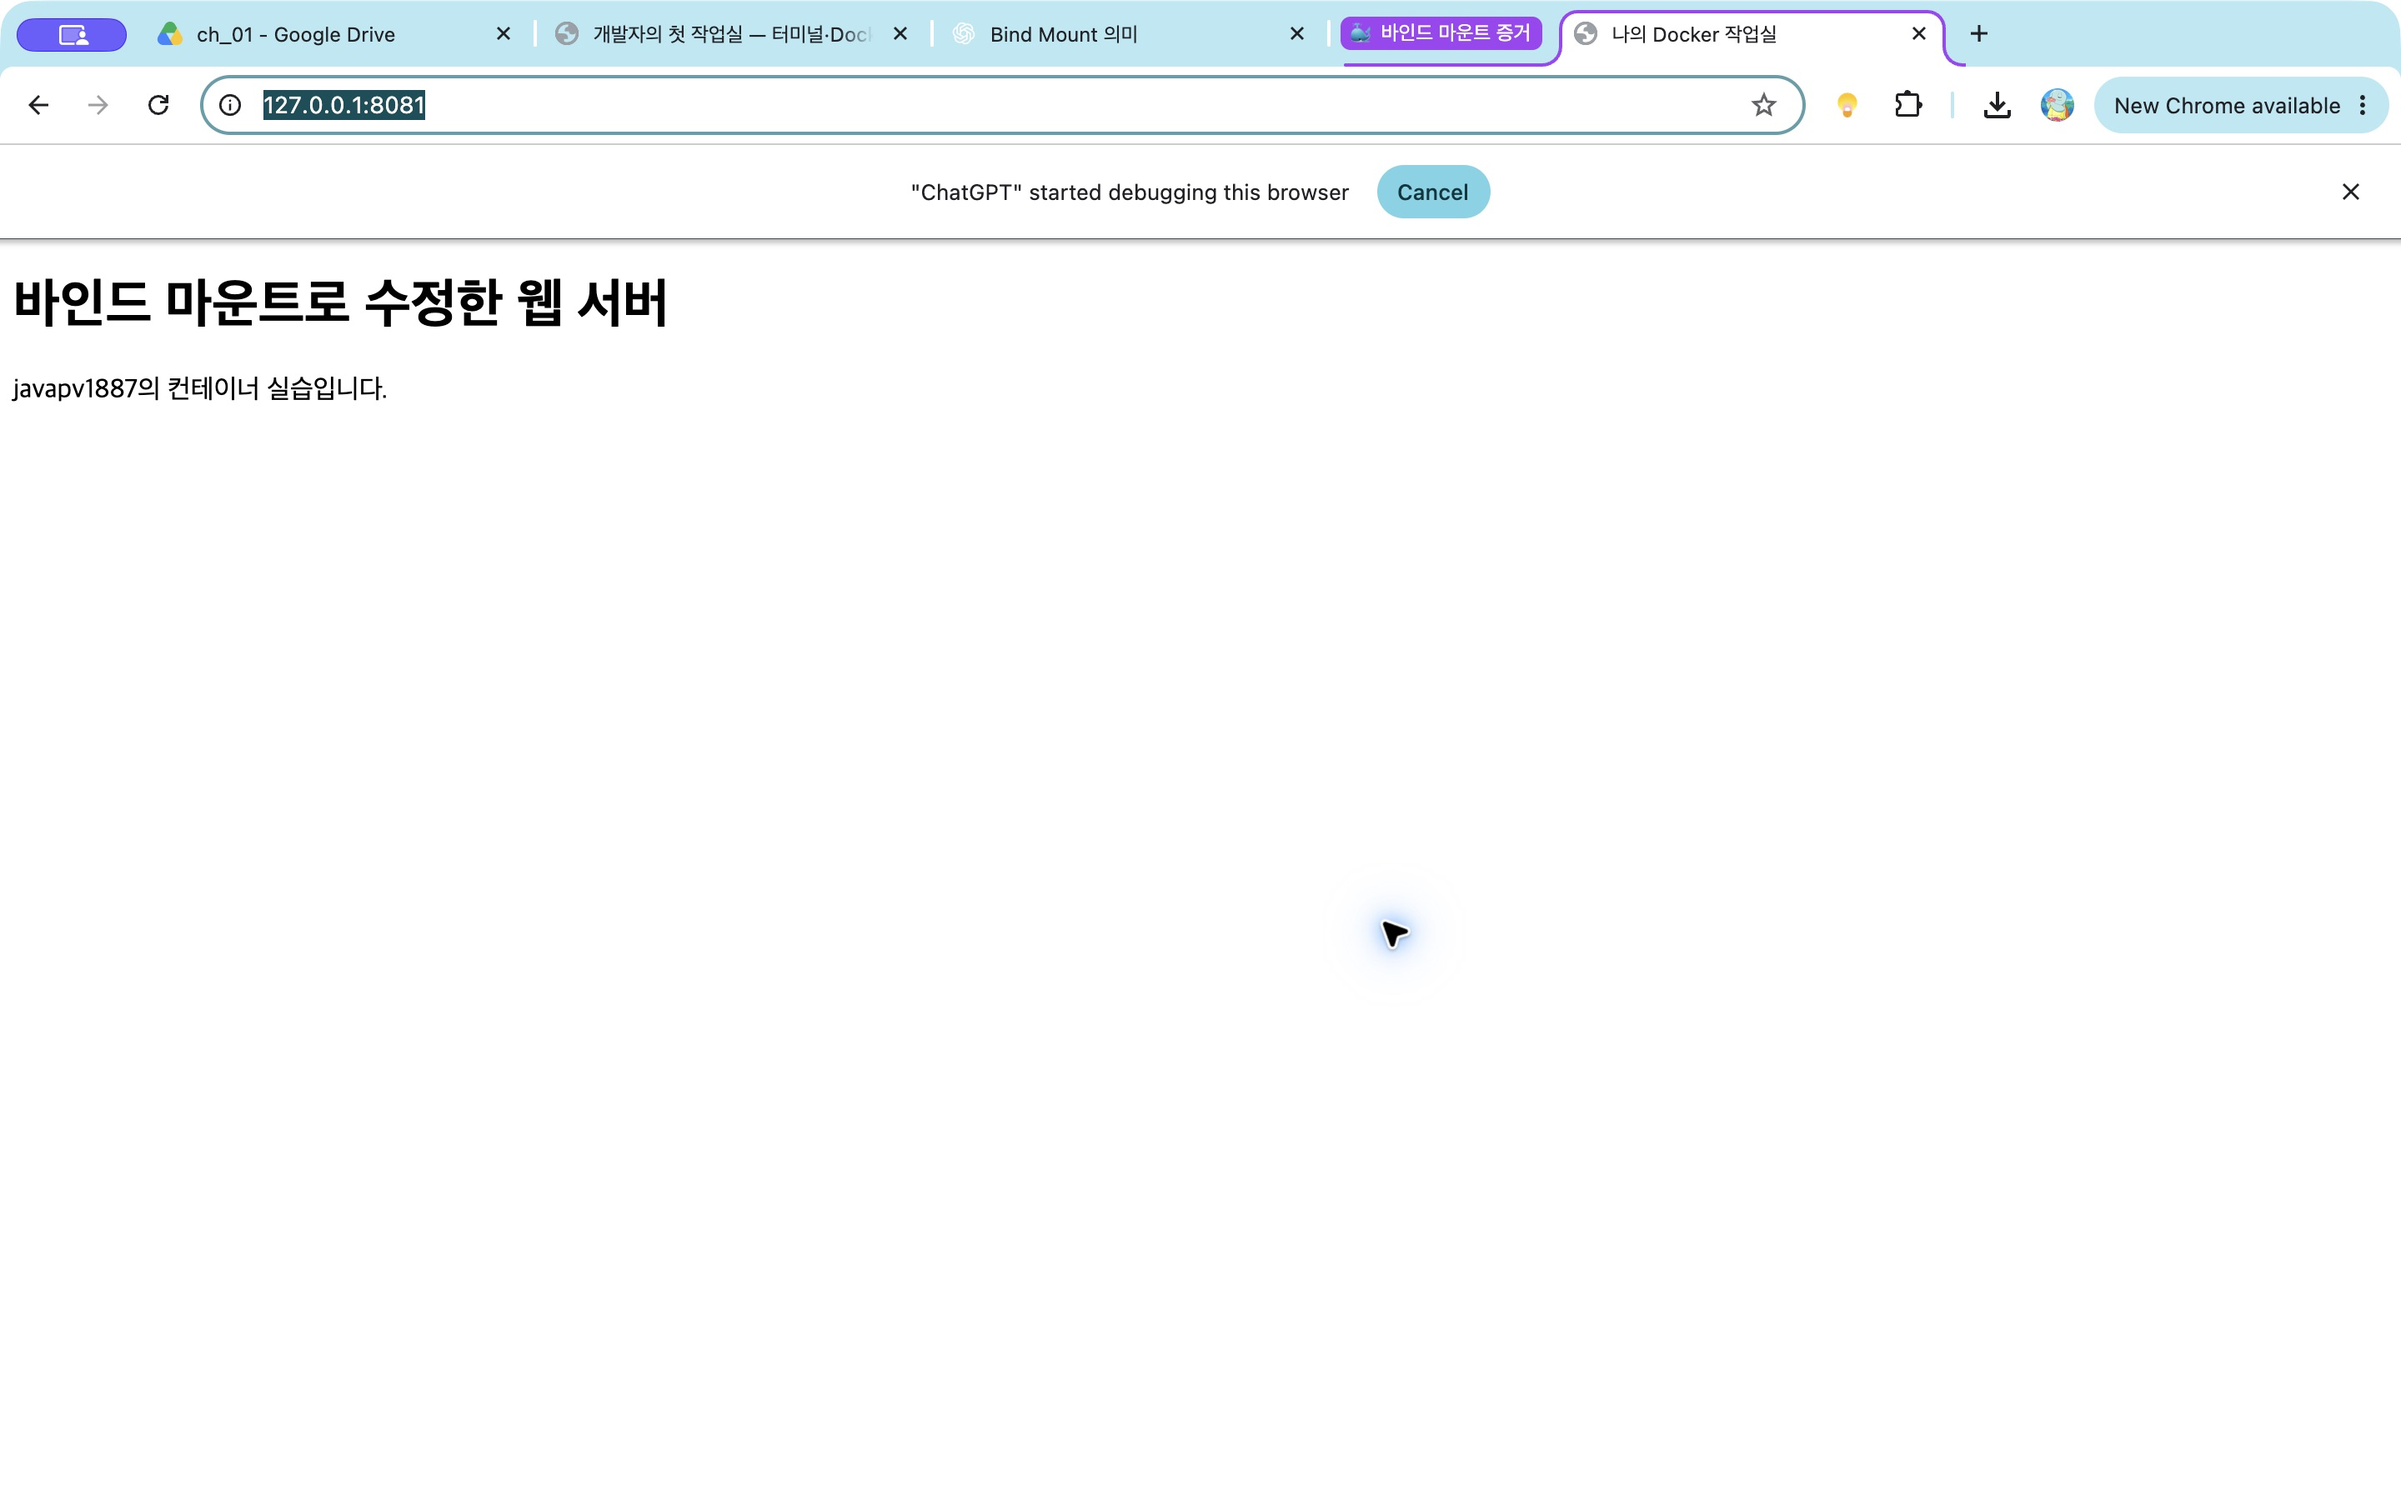
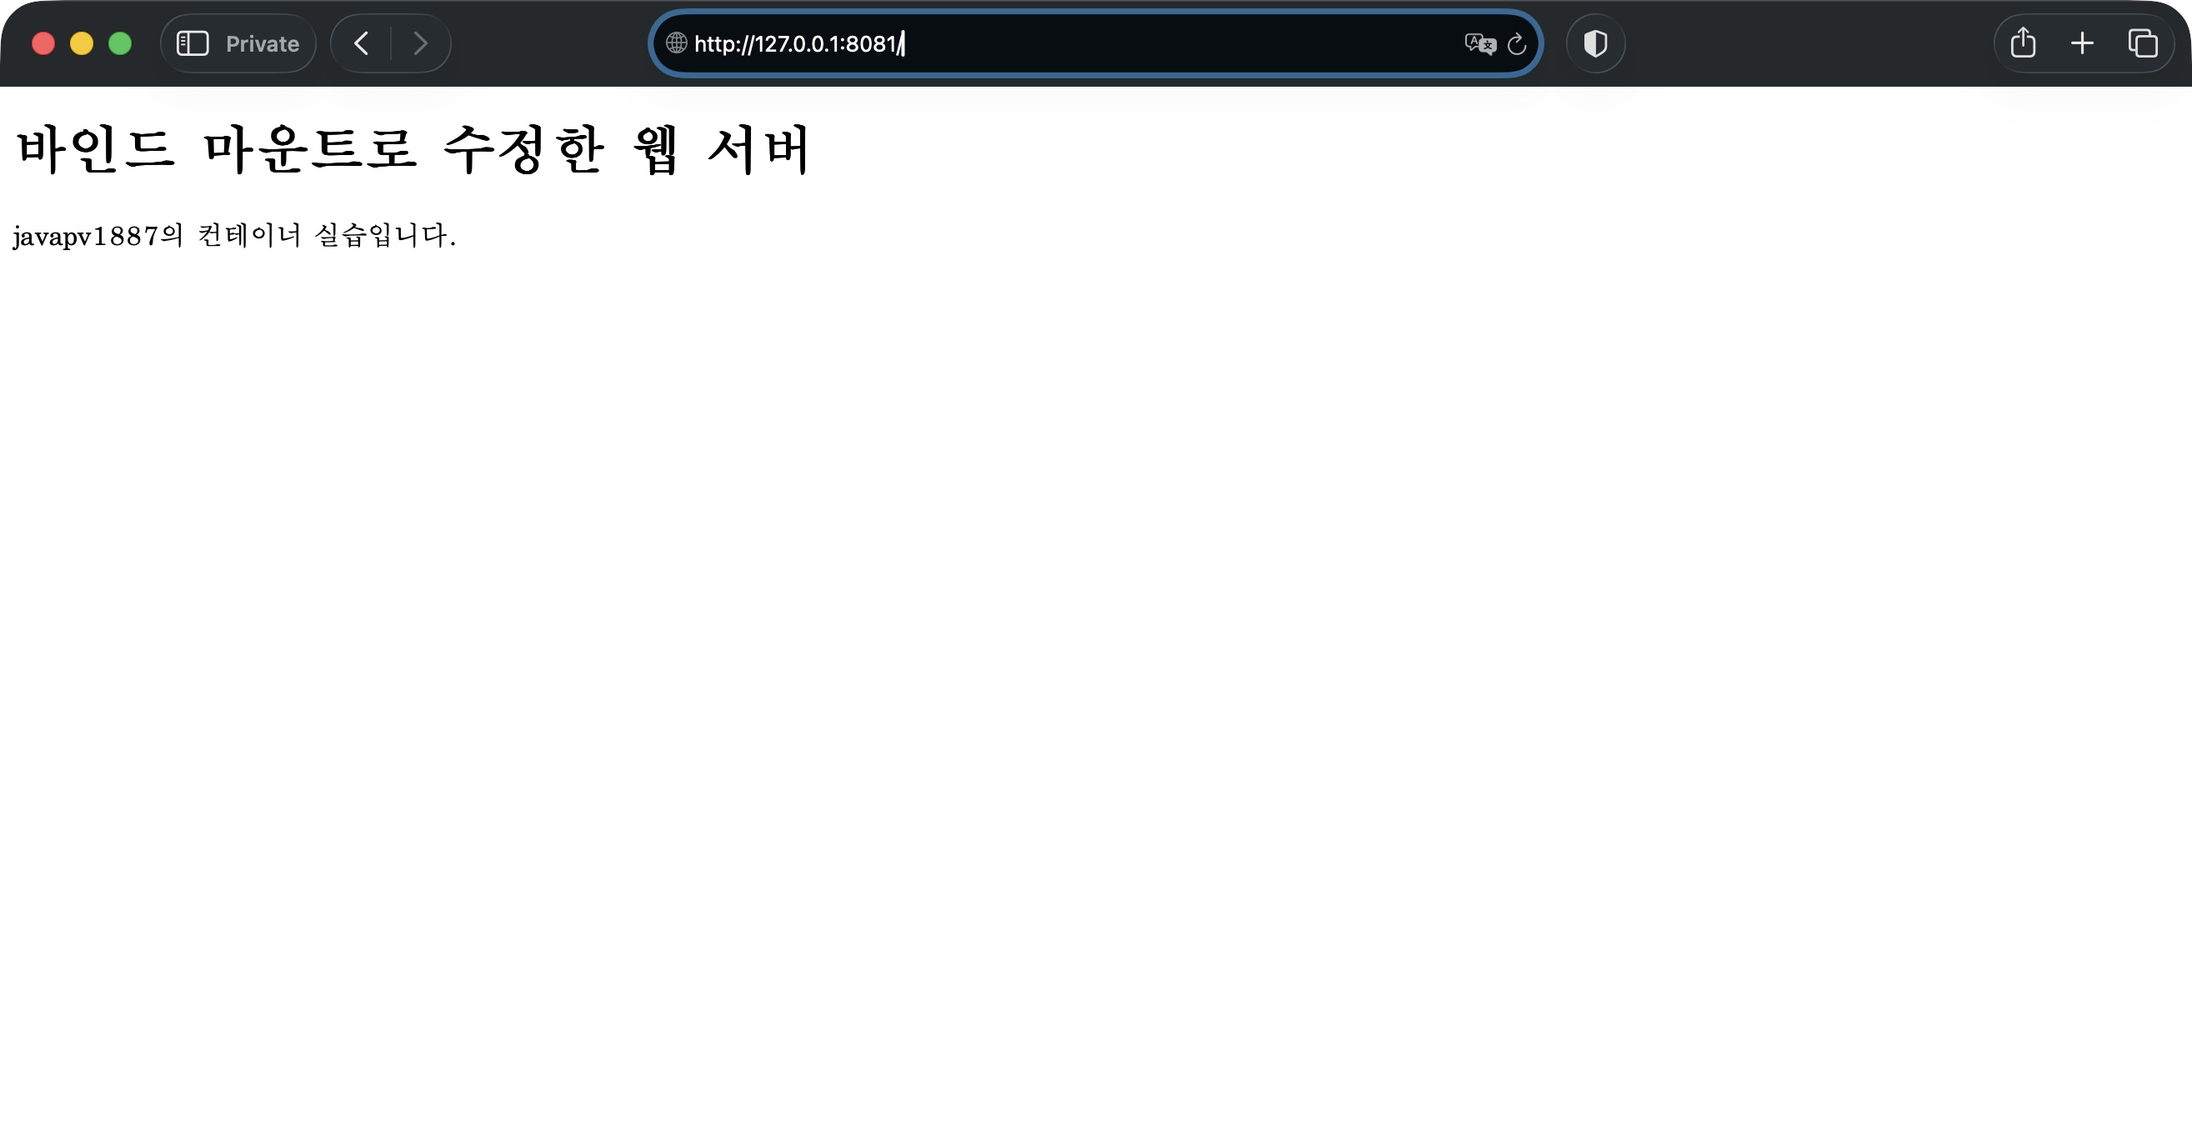
과제 공개본의 작성자 정보와 브라우저 캡처 정리

Changed region(s): [[0.0, 0.0, 1.0, 0.2155], [0.0, 0.2463, 0.1559, 0.2771], [0.5612, 0.585, 0.5924, 0.6466]]

diff --git a/README.md b/README.md
@@ -22,8 +22,8 @@
 | 커스텀 웹 서버 이미지 | `ws-web:1.0` |
 | 실습 웹 서버 버전 | HTTP 응답의 `nginx/1.31.8` |
 | Git | 2.50.1, Apple Git-155 |
-| Git 작성자 이름 | `javapv1887` |
-| Git 작성자 이메일 | `351423688+javapv1887@users.noreply.github.com` |
+| Git 작성자 이름 | 설정 확인, 공개본에서 가림 |
+| Git 작성자 이메일 | 설정 확인, 공개본에서 가림 |
 | Git 기본 브랜치 설정 | `main` |
 
 운영체제·셸·도구 버전과 Git 설정은 문서를 정리하면서 Codex가 읽기 전용 명령으로 확인했으며, [환경 점검 로그](evidence/logs/environment-check.txt)에 보관했다. Docker 버전·엔진 동작과 `hello-world` 실행은 직접 실습했고, [Docker 기본 실습 정리 로그](evidence/logs/docker-basic-clean.txt)에 명령과 실제 출력을 기록했다.
@@ -633,7 +633,7 @@ $ docker logs ws-web-8080
 
 ### 10.5. 브라우저 화면 캡처
 
-2026년 11월 4일 사용자 요청에 따라 Codex가 Chrome에서 실제 실행 중인 웹 서버에 접속해 브라우저 창을 캡처했다.
+2026년 11월 4일 실습에서 브라우저 접속을 확인했다. 공개용 이미지는 과제와 관계없는 브라우저 탭이 화면에 나오지 않도록 실제 웹 서버에 다시 접속해 Safari 비공개 창에서 캡처했다.
 
 주소창의 `127.0.0.1:8080`과 본문의 `나의 첫 Docker 웹 서버`, `javapv1887의 컨테이너 실습입니다.` 문구가 함께 표시된다. 포트 8080으로 접속한 결과와 한글 콘텐츠의 정상 표시를 확인했다.
 
@@ -650,7 +650,7 @@ $ docker logs ws-web-8080
 | 포트 매핑 | 컨테이너 목록의 PORTS | `127.0.0.1:8080->80/tcp` |
 | HTTP 접속 | `curl -i http://127.0.0.1:8080` | `200 OK`, 소스와 동일한 HTML |
 | 서버 로그 | `docker logs ws-web-8080` | 시작 완료 및 `GET /` 응답 `200 219` |
-| 브라우저 캡처 | [실제 Chrome 화면](evidence/images/web-8080.jpg) | `127.0.0.1:8080`, 제목·본문 정상 표시 |
+| 브라우저 캡처 | [실제 브라우저 화면](evidence/images/web-8080.jpg) | `127.0.0.1:8080`, 제목·본문 정상 표시 |
 
 실습 기록은 Mac 셸에서 `exit`로 종료했고 원본 로그에 기록 종료 시각이 남아 있다.
 
@@ -717,7 +717,7 @@ Content-Length: 219
 
 ### 11.4. 브라우저 화면 캡처
 
-사용자 요청에 따라 Codex가 Chrome에서 실제 `8081` 서버에 접속해 캡처했다. 주소창의 `127.0.0.1:8081`과 바뀐 제목이 함께 보인다.
+공개용 이미지는 실제 `8081` 서버에 다시 접속해 Safari 비공개 창에서 캡처했다. 주소창의 `127.0.0.1:8081`과 바뀐 제목이 함께 보인다.
 
 ![포트 8081의 주소창과 바인드 마운트로 수정한 페이지](evidence/images/bind-mount-8081.jpg)
 
@@ -906,7 +906,7 @@ printf '%s\n' '-' | bash
 
 ### 14.1. 로컬 저장소와 첫 커밋
 
-2026년 11월 7일 사용자 요청에 따라 Codex가 과제 폴더에서 `main` 브랜치로 Git 저장소를 초기화했다. `git config --list`의 출력에서 과제에 필요한 작성자 정보와 기본 브랜치 설정을 골라 기록했다.
+2026년 11월 7일 사용자 요청에 따라 Codex가 과제 폴더에서 `main` 브랜치로 Git 저장소를 초기화했다. `git config --list`에서 작성자와 기본 브랜치가 설정되어 있음을 확인했다. 공개본에서는 작성자 이름과 이메일의 값을 가렸다.
 
 ```text
 $ git init -b main
@@ -915,8 +915,8 @@ $ git branch --show-current
 main
 $ git config --list | grep -Ei '^(user\.(name|email)|init\.defaultbranch)='
 init.defaultbranch=main
-user.name=javapv1887
-user.email=351423688+javapv1887@users.noreply.github.com
+user.name=<가림>
+user.email=<가림>
 ```
 
 [.gitignore](.gitignore)에 macOS의 `.DS_Store`와 터미널 원본 로그를 제외하는 규칙을 넣었다. README에서 링크한 증거 로그와 화면 캡처는 첫 커밋에 포함했다.
@@ -933,7 +933,7 @@ git status
 
 사용자 요청에 따라 Codex가 GitHub CLI로 공개 저장소를 만들고 첫 커밋 `c9d5756`을 올렸다. 로컬 `main`이 `origin/main`을 추적한다.
 
-GitHub에서 푸시된 커밋과 그 커밋에 포함된 파일을 확인할 수 있다. [첫 커밋 c9d5756](https://github.com/javapv1887/workstation/commit/c9d575623525f50148921530461040d2cc94ec0d)
+GitHub에서 푸시된 커밋을 확인할 수 있다. [main 브랜치 커밋 목록](https://github.com/javapv1887/workstation/commits/main/)
 
 ```text
 $ gh repo create javapv1887/workstation --public --source=. --remote=origin --push
